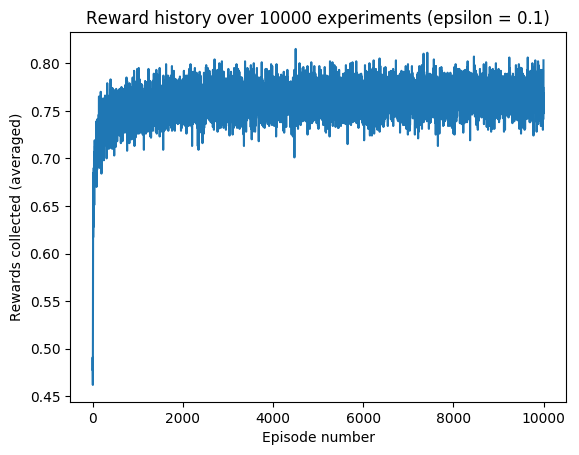
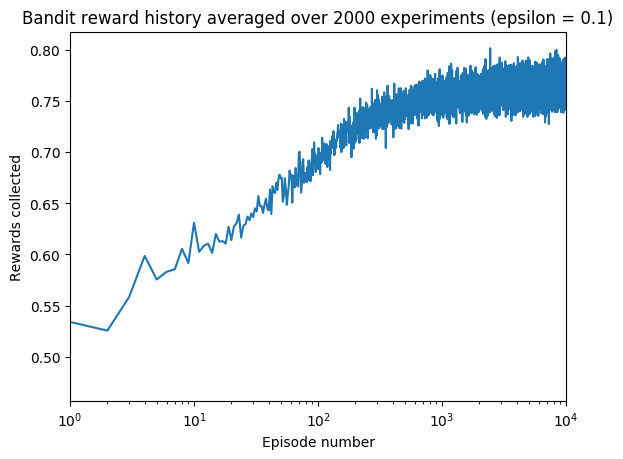
update

Changed region(s): [[0.0, 0.0, 0.9948, 0.9846], [0.2176, 0.5538, 0.2798, 0.6154]]

diff --git a/multiarmed_bandit/multiarmed_bandit.py b/multiarmed_bandit/multiarmed_bandit.py
@@ -3,7 +3,7 @@
  multiarmed_bandit.py  (author: Anson Wong / git: ankonzoid)
 
  We solve the multi-armed bandit problem using a classical epsilon-greedy
- agent with reward-averaging sampling to estimate the action-value Q.
+ agent with reward-average sampling to estimate the action-value Q.
  This algorithm follows closely with the notation of Sutton's RL textbook.
 
  We set up up bandits with a fixed probability distribution of success,
@@ -31,7 +31,6 @@
 """
 import numpy as np
 import matplotlib.pyplot as plt
-import matplotlib.pylab as pylab
 
 def main():
     # =========================
@@ -39,7 +38,7 @@ def main():
     # =========================
     bandit_probs = [0.10, 0.50, 0.60, 0.80, 0.10,
                     0.25, 0.60, 0.45, 0.75, 0.65]  # bandit probabilities of success
-    N_experiments = 1000  # number of experiments to perform
+    N_experiments = 2000  # number of experiments to perform
     N_episodes = 10000  # number of episodes per experiment
     epsilon = 0.1  # probability of random exploration (fraction)
     save_fig = True  # if false -> plot, if true save as file in same directory
@@ -78,7 +77,8 @@ def main():
                 action_explore = np.random.randint(bandit.N)  # explore random bandit
                 return action_explore
             else:
-                action_greedy = np.argmax(self.Q)  # exploit best current bandit
+                #action_greedy = np.argmax(self.Q)  # exploit best current bandit
+                action_greedy = np.random.choice(np.flatnonzero(self.Q == self.Q.max()))
                 return action_greedy
 
     # =========================
@@ -89,7 +89,7 @@ def main():
         reward_history = []
         for episode in range(N_episodes):
             # Choose action from agent (from current Q estimate)
-            action = agent.choose_action(bandit, force_explore=(episode<10))
+            action = agent.choose_action(bandit)
             # Pick up reward from bandit for chosen action
             reward = bandit.get_reward(action)
             # Update Q action-value estimates
@@ -136,8 +136,11 @@ def main():
     # =========================
     plt.plot(reward_history_avg)
     plt.xlabel("Episode number")
-    plt.ylabel("Rewards collected (averaged)".format(N_experiments))
-    plt.title("Reward history over {} experiments (epsilon = {})".format(N_episodes, epsilon))
+    plt.ylabel("Rewards collected".format(N_experiments))
+    plt.title("Bandit reward history averaged over {} experiments (epsilon = {})".format(N_experiments, epsilon))
+    ax = plt.gca()
+    ax.set_xscale("log", nonposx='clip')
+    plt.xlim([1, N_episodes])
     if save_fig:
         output_file = "results/MAB_rewards" + save_format
         plt.savefig(output_file, bbox_inches="tight")
@@ -154,17 +157,18 @@ def main():
                  action_history_sum_plot,
                  linewidth=5.0,
                  label="Bandit #{}".format(i+1))
+    plt.title("Bandit action history averaged over {} experiments (epsilon = {})".format(N_experiments, epsilon), fontsize=26)
     plt.xlabel("Episode Number", fontsize=26)
-    plt.ylabel("Bandit Choices (%)", fontsize=26)
-    leg = plt.legend(loc='upper left', shadow=True, fontsize=22)
+    plt.ylabel("Bandit Action Choices (%)", fontsize=26)
+    leg = plt.legend(loc='upper left', shadow=True, fontsize=26)
     ax = plt.gca()
     ax.set_xscale("log", nonposx='clip')
-    plt.xlim([1, 10000])
+    plt.xlim([1, N_episodes])
     plt.ylim([0, 100])
     plt.xticks(fontsize=24)
     plt.yticks(fontsize=24)
     for legobj in leg.legendHandles:
-        legobj.set_linewidth(14.0)
+        legobj.set_linewidth(16.0)
     if save_fig:
         output_file = "results/MAB_actions" + save_format
         plt.savefig(output_file, bbox_inches="tight")

diff --git a/multiarmed_bandit/README.md b/multiarmed_bandit/README.md
@@ -1,27 +1,17 @@
 # Solving the Multi-armed Bandit Problem
 
-The multi-armed bandit problem is as follows: we have _n_ rigged slot machines bandits each with their own probability distribution of success (which are inaccessible to you). Pulling the lever of any machine gives us either a reward of +1 (success) or -1 (failure). Our goal is to play many episodes of this game with the goal of *maximizing* our total accumulated rewards. 
+The multi-armed bandit problem is a classic reinforcement learning example where we are given a slot machine with n arms (bandits) with each arm having its own rigged probability distribution of success. Pulling any one of the arms gives you a stochastic reward of either R=+1 for success, or R=0 for failure. Our objective is to pull the arms one-by-one in sequence such that we maximize our total reward collected in the long run.
 
-In this code, we deploy an epsilon-greedy agent to play the multi-armed bandit game for a fixed number of episodes using a policy-based optimization method of policy gradient updates on a feed-forward neural network approximation of the policy. As a result of playing the game, we learn the optimal policy which in this case is the best bandit (slot machine with the highest probability of success).
-
-We also provide appendices for the: 
-* Epsilon-greedy agent (Appendix A)
-* Policy gradients (Appendix B)
+In this code, we deploy an epsilon-greedy agent to play the multi-armed bandit game for a fixed number of episodes using a well-established classical reinforcement learning method of an epsilon-greedy agent and reward-average sampling to compute the action-values Q(a).
 
 ### Usage:
 
-In the example provided, we train on 1000 experiments with 2000 episodes in each experiment. The default exploring parameter is `epsilon = 0.1` and 10 bandits are intialized with success probabilities of `{0.10, 0.50, 0.60, 0.80, 0.10, 0.25, 0.60, 0.45, 0.75, 0.65}`. To run the code, use 
+In the example provided, we train on 2,000 experiments with 10,000 episodes per experiment. The default exploring parameter is `epsilon = 0.1` and 10 bandits are intialized with success probabilities of `{0.10, 0.50, 0.60, 0.80, 0.10, 0.25, 0.60, 0.45, 0.75, 0.65}`. To run the code, use 
 
 > python multiarmed_bandit.py
 
-The optimal policy should select bandit #4 as the "best" bandit minima on average, with bandit #9 as a close second.
+Bandit #4 should be selected as the "best" bandit on average, with bandit #9 running second, and bandit #10 as a far third.
 
 ### Libraries required:
 
 * numpy
-
-## Appendix A: The epsilon-greedy agent
-
-The *epsilon-greedy agent* is an agent which at decision time either selects a greedy action with _1-epsilon_ probability, or explores the entire action space with the remaining _epsilon_ probability. Taking a greedy action means selecting the action with the highest expected reward.
-
-Note that a mixture of exploration and greed is a quintessential aspect of reinforcement learning. Exploration is necessary for finding the optimal policy as the agent needs to understand the environment it is in, and to learn routes leaing to high long-term rewards. Although greed is not necessarily needed for finding the optimal policy, a purely exploratory agent does not utilize its experience to strategize for its future moves -- therefore no actual learning is involved without a greed mechanism in play. 
